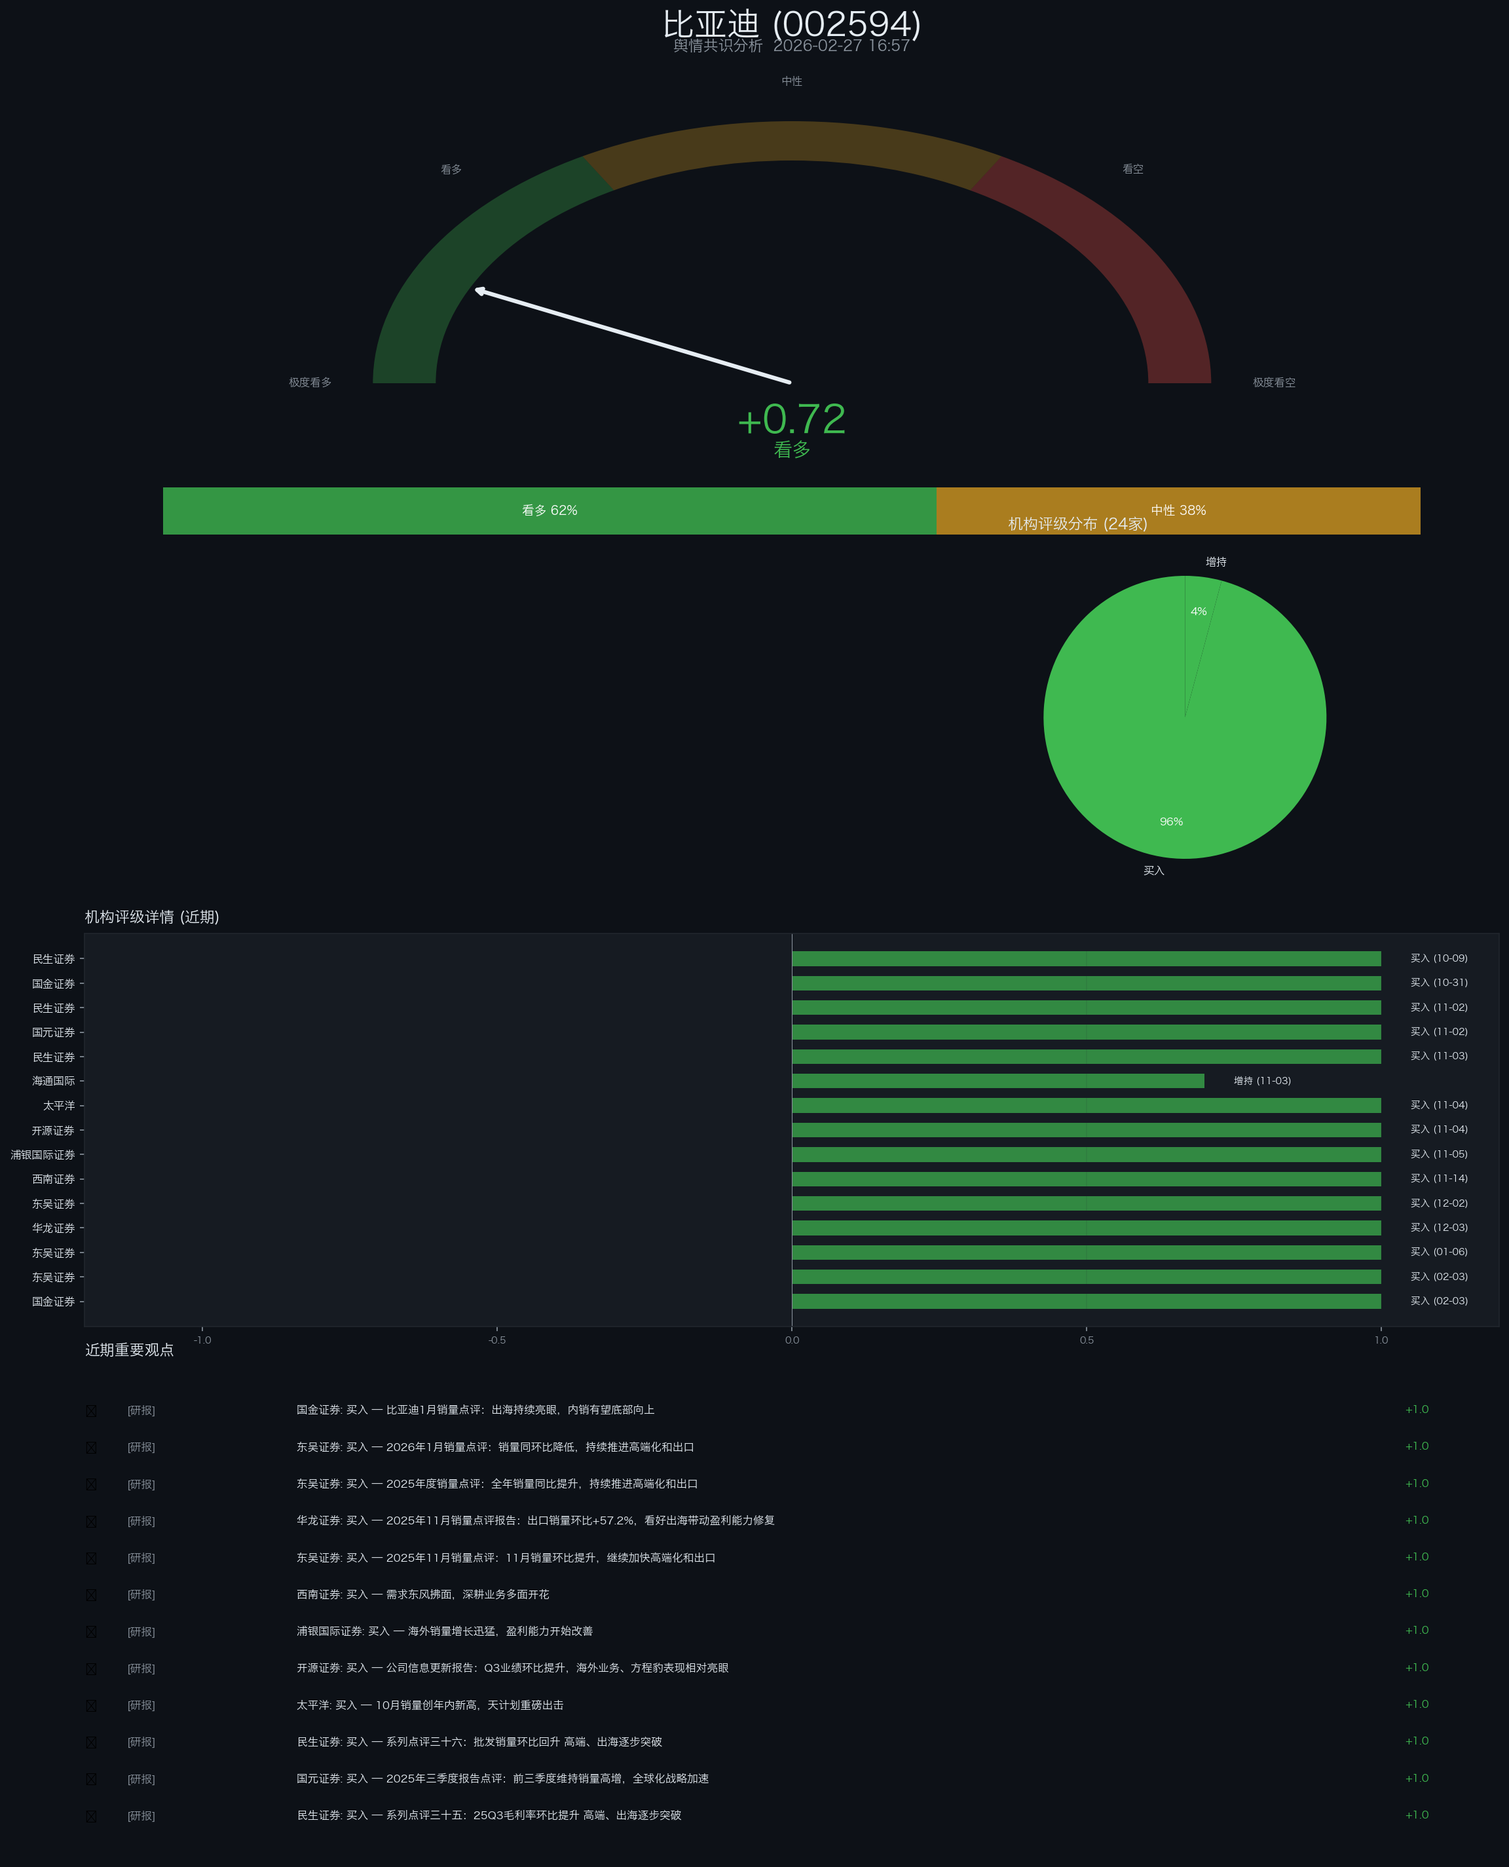
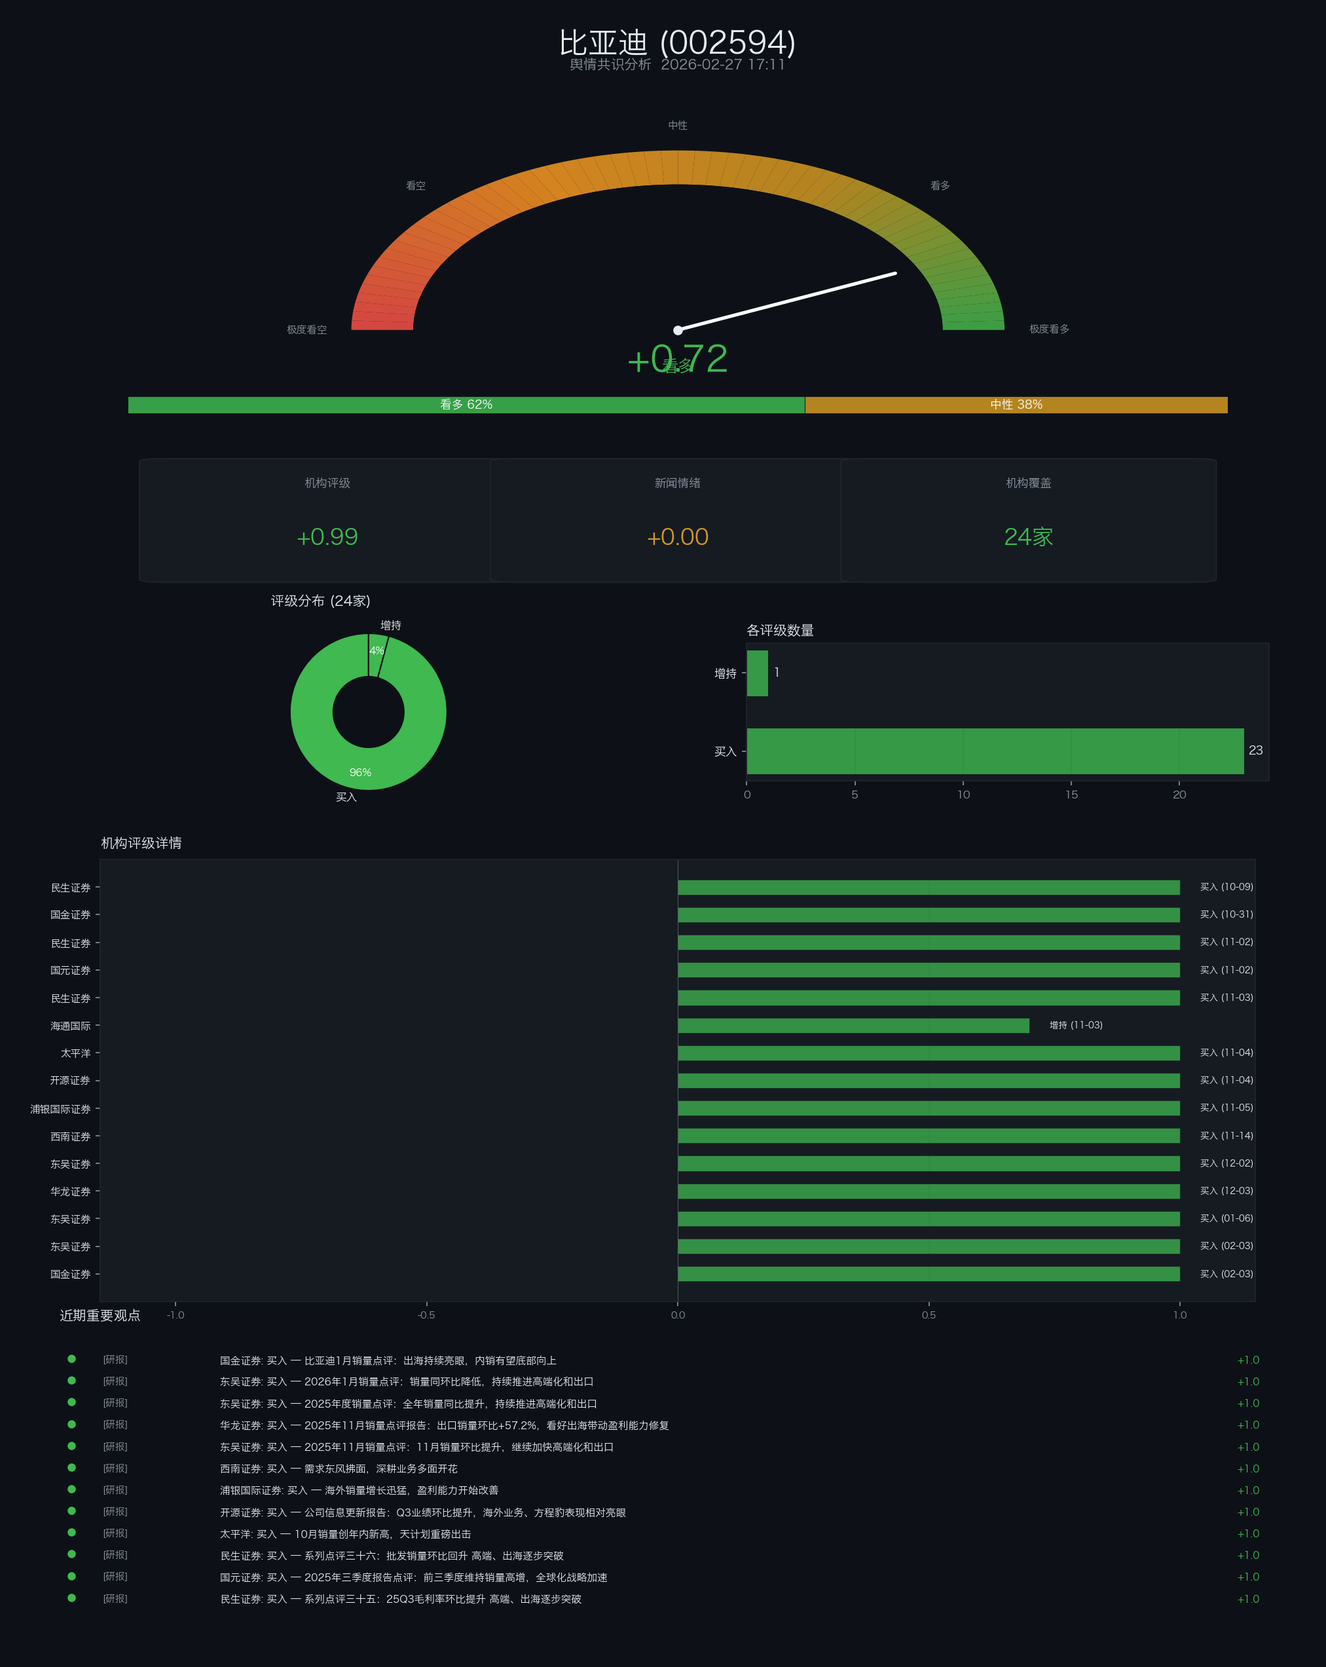
fix: 仪表盘v2 — 方向修正(左空右多)+渐变美化+紧凑布局+指标卡片

diff --git a/skills/sentiment-consensus/scripts/consensus_report.py b/skills/sentiment-consensus/scripts/consensus_report.py
@@ -194,187 +194,280 @@ def rating_to_score(rating):
 # 可视化: 共识仪表盘
 # ═══════════════════════════════════════
 def draw_consensus(data, name, code, output_path):
-    """绘制共识仪表盘"""
+    """绘制共识仪表盘 — v2 精简美观版"""
     import matplotlib
     matplotlib.use('Agg')
     import matplotlib.pyplot as plt
-    from matplotlib.patches import FancyBboxPatch, Arc, Wedge
+    from matplotlib.patches import Wedge
     import matplotlib.patheffects as pe
 
     plt.rcParams['font.sans-serif'] = ['PingFang SC','Hiragino Sans GB','STHeiti','SimHei','Arial Unicode MS']
     plt.rcParams['axes.unicode_minus'] = False
 
-    BG='#0d1117'; PNL='#161b22'; GRD='#21262d'
-    TXT='#e6edf3'; LBL='#8b949e'
-    BULL='#3fb950'; BEAR='#f85149'; NEU='#d29922'
+    # 配色系统
+    BG     = '#0d1117'
+    PNL    = '#161b22'
+    GRD    = '#21262d'
+    TXT    = '#e6edf3'
+    LBL    = '#8b949e'
+    BULL   = '#3fb950'
+    BEAR   = '#f85149'
+    NEU    = '#d29922'
+    ACCENT = '#58a6ff'
 
-    fig = plt.figure(figsize=(16, 20), facecolor=BG)
-
-    # === 标题区 ===
-    fig.text(0.5, 0.97, f'{name} ({code})', fontsize=24, fontweight='bold',
-             color=TXT, ha='center', va='top')
-    fig.text(0.5, 0.955, f'舆情共识分析  {datetime.now().strftime("%Y-%m-%d %H:%M")}',
-             fontsize=11, color=LBL, ha='center', va='top')
-
-    # 数据提取
-    consensus_score = data.get('consensus_score', 0)  # -1 ~ +1
+    consensus_score = data.get('consensus_score', 0)
     bull_pct = data.get('bull_pct', 0)
     bear_pct = data.get('bear_pct', 0)
     neu_pct = data.get('neutral_pct', 0)
-    ratings = data.get('ratings', [])
-    guba_sentiment = data.get('guba_sentiment', data.get('news_sentiment', 0))
     news_sentiment = data.get('news_sentiment', 0)
+    rating_avg = data.get('rating_avg', 0)
     ths_data = data.get('ths_diagnosis', {})
     top_opinions = data.get('top_opinions', [])
     rating_dist = data.get('rating_distribution', {})
     orgs = data.get('org_ratings', [])
 
-    # === 1. 共识仪表盘 (大半圆) ===
-    ax_gauge = fig.add_axes([0.1, 0.74, 0.8, 0.2])
-    ax_gauge.set_xlim(-1.5, 1.5); ax_gauge.set_ylim(-0.3, 1.2)
-    ax_gauge.set_facecolor(BG); ax_gauge.axis('off')
+    # 计算需要几个面板来决定高度
+    has_orgs = len(orgs) > 0
+    has_opinions = len(top_opinions) > 0
+    n_orgs = min(len(orgs), 15)
+    n_ops = min(len(top_opinions), 12)
 
-    # 半圆弧 (绿-黄-红)
-    for angle, color in [(0, BEAR), (60, NEU), (120, BULL)]:
-        w = Wedge((0, 0), 1.0, angle, angle+60, width=0.15, fc=color, alpha=0.3)
-        ax_gauge.add_patch(w)
+    fig_h = 10  # 仪表盘+多空条+评分+评级分布
+    if has_orgs: fig_h += max(3, n_orgs * 0.35)
+    if has_opinions: fig_h += max(3, n_ops * 0.3)
 
-    # 指针
-    ptr_angle = 90 + consensus_score * 90  # -1→0°, 0→90°, +1→180°
+    fig = plt.figure(figsize=(14, fig_h), facecolor=BG)
+
+    # === 标题 ===
+    fig.text(0.5, 1 - 0.15/fig_h, f'{name} ({code})', fontsize=22, fontweight='bold',
+             color=TXT, ha='center', va='top')
+    fig.text(0.5, 1 - 0.45/fig_h, f'舆情共识分析  {data.get("date", "")}',
+             fontsize=10, color=LBL, ha='center', va='top')
+
+    # ============================================
+    # 1. 仪表盘 (紧凑半圆)
+    # ============================================
+    gauge_h = 2.5 / fig_h
+    gauge_bot = 1 - 1.0/fig_h - gauge_h
+    ax_g = fig.add_axes([0.15, gauge_bot, 0.7, gauge_h])
+    ax_g.set_xlim(-1.4, 1.4); ax_g.set_ylim(-0.15, 1.15)
+    ax_g.set_facecolor(BG); ax_g.axis('off')
+
+    # 渐变弧 — 从左(极度看空/红)到右(极度看多/绿)
+    n_seg = 60
+    for i in range(n_seg):
+        a_start = 180 - i * (180 / n_seg)
+        a_end = 180 - (i + 1) * (180 / n_seg)
+        t = i / n_seg  # 0=左(看空/红) → 1=右(看多/绿)
+        if t < 0.35:
+            # 红 → 橙
+            r = 248
+            g = int(81 + (153-81) * t/0.35)
+            b = int(73 + (34-73) * t/0.35)
+        elif t < 0.65:
+            # 橙 → 黄
+            tt = (t - 0.35) / 0.3
+            r = int(248 + (210-248) * tt)
+            g = int(153 + (153-153) * tt)
+            b = int(34 + (34-34) * tt)
+        else:
+            # 黄 → 绿
+            tt = (t - 0.65) / 0.35
+            r = int(210 + (63-210) * tt)
+            g = int(153 + (185-153) * tt)
+            b = int(34 + (80-34) * tt)
+        color = f'#{r:02x}{g:02x}{b:02x}'
+        w = Wedge((0, 0), 0.95, a_end, a_start, width=0.18, fc=color, ec='none', alpha=0.85)
+        ax_g.add_patch(w)
+
+    # 内阴影
+    w_inner = Wedge((0, 0), 0.77, 0, 180, fc=BG, ec='none')
+    ax_g.add_patch(w_inner)
+
+    # 指针 — score -1(极度看空/左/180°)→0(中/90°)→+1(极度看多/右/0°)
+    ptr_angle = 90 - consensus_score * 90  # +1→0°(右), -1→180°(左)
     ptr_rad = np.radians(ptr_angle)
-    ax_gauge.annotate('', xy=(0.85*np.cos(ptr_rad), 0.85*np.sin(ptr_rad)),
-                      xytext=(0, 0),
-                      arrowprops=dict(arrowstyle='->', color=TXT, lw=3))
+    ax_g.plot([0, 0.7*np.cos(ptr_rad)], [0, 0.7*np.sin(ptr_rad)],
+             color='white', lw=2.5, solid_capstyle='round')
+    ax_g.plot(0, 0, 'o', color=TXT, markersize=6, zorder=5)
 
-    # 刻度标签
+    # 刻度标签 — 左=看空, 右=看多
     for val, label in [(-1, '极度看空'), (-0.5, '看空'), (0, '中性'), (0.5, '看多'), (1, '极度看多')]:
-        a = np.radians(90 + val * 90)
-        ax_gauge.text(1.15*np.cos(a), 1.15*np.sin(a), label,
-                     fontsize=8, color=LBL, ha='center', va='center')
+        a = np.radians(90 - val * 90)  # -1→180°(左), +1→0°(右)
+        ax_g.text(1.08*np.cos(a), 1.08*np.sin(a), label,
+                 fontsize=7.5, color=LBL, ha='center', va='center')
 
-    # 中心分数
+    # 分数
     score_color = BULL if consensus_score > 0.2 else BEAR if consensus_score < -0.2 else NEU
     label_text = '看多' if consensus_score > 0.2 else '看空' if consensus_score < -0.2 else '中性'
-    ax_gauge.text(0, -0.15, f'{consensus_score:+.2f}', fontsize=28, fontweight='bold',
-                 color=score_color, ha='center', va='center',
-                 path_effects=[pe.withStroke(linewidth=3, foreground=BG)])
-    ax_gauge.text(0, -0.28, label_text, fontsize=14, color=score_color, ha='center')
+    ax_g.text(0, -0.08, f'{consensus_score:+.2f}', fontsize=26, fontweight='bold',
+             color=score_color, ha='center', va='top',
+             path_effects=[pe.withStroke(linewidth=2, foreground=BG)])
+    ax_g.text(0, -0.22, label_text, fontsize=12, color=score_color, ha='center')
 
-    # === 2. 多头/空头/中性占比 (三色条) ===
-    ax_bar = fig.add_axes([0.1, 0.70, 0.8, 0.03])
+    # ============================================
+    # 2. 多空占比条
+    # ============================================
+    bar_bot = gauge_bot - 0.6/fig_h
+    ax_bar = fig.add_axes([0.1, bar_bot, 0.8, 0.25/fig_h])
     ax_bar.set_facecolor(BG); ax_bar.axis('off')
     ax_bar.set_xlim(0, 1); ax_bar.set_ylim(0, 1)
-
     x = 0
     for pct, color, label in [(bull_pct, BULL, '看多'), (neu_pct, NEU, '中性'), (bear_pct, BEAR, '看空')]:
         if pct > 0:
-            ax_bar.barh(0.5, pct/100, left=x, height=0.8, color=color, alpha=0.8)
-            if pct > 8:
-                ax_bar.text(x + pct/200, 0.5, f'{label} {pct:.0f}%', fontsize=9,
+            ax_bar.barh(0.5, pct/100, left=x, height=0.7, color=color, alpha=0.85,
+                       edgecolor=BG, linewidth=0.5)
+            if pct > 10:
+                ax_bar.text(x + pct/200, 0.5, f'{label} {pct:.0f}%', fontsize=8.5,
                            color='white', ha='center', va='center', fontweight='bold')
             x += pct/100
 
-    # === 3. 各维度雷达/评分 ===
-    dims_data = []
-    if ths_data:
-        for k in ['技术面','资金面','基本面','消息面']:
-            if k in ths_data:
-                dims_data.append((k, ths_data[k]))
-    if guba_sentiment != 0:
-        dims_data.append(('新闻情绪', (guba_sentiment + 1) * 50))  # -1~+1 → 0~100
-    if news_sentiment != 0:
-        dims_data.append(('新闻情绪', (news_sentiment + 1) * 50))
+    # ============================================
+    # 3. 核心指标卡片 (评级+新闻+同花顺)
+    # ============================================
+    card_bot = bar_bot - 1.8/fig_h
+    ax_card = fig.add_axes([0.05, card_bot, 0.9, 1.5/fig_h])
+    ax_card.set_facecolor(BG); ax_card.axis('off')
+    ax_card.set_xlim(0, 1); ax_card.set_ylim(0, 1)
 
-    if dims_data:
-        ax_radar = fig.add_axes([0.05, 0.52, 0.45, 0.18])
-        ax_radar.set_facecolor(PNL)
-        for s in ax_radar.spines.values(): s.set_color(GRD)
-        ax_radar.tick_params(colors=LBL, labelsize=8)
-
-        names_d = [d[0] for d in dims_data]
-        vals = [d[1] for d in dims_data]
-        colors_d = [BULL if v > 60 else BEAR if v < 40 else NEU for v in vals]
-
-        bars = ax_radar.barh(range(len(dims_data)), vals, color=colors_d, alpha=0.7, height=0.6)
-        ax_radar.set_yticks(range(len(dims_data)))
-        ax_radar.set_yticklabels(names_d, fontsize=9, color=TXT)
-        ax_radar.set_xlim(0, 100)
-        ax_radar.set_xlabel('分数', fontsize=8, color=LBL)
-        ax_radar.axvline(50, color=LBL, lw=0.5, ls='--', alpha=0.4)
-        for i, v in enumerate(vals):
-            ax_radar.text(v + 1, i, f'{v:.0f}', fontsize=9, color=TXT, va='center')
-        ax_radar.set_title('多维度评分', fontsize=11, color=TXT, pad=8, loc='left')
-        ax_radar.grid(axis='x', alpha=0.1, color=GRD)
-
-    # === 4. 机构评级分布 (饼图) ===
+    # 计算有几个指标卡片
+    cards = []
+    cards.append(('机构评级', f'{rating_avg:+.2f}', rating_avg))
+    cards.append(('新闻情绪', f'{news_sentiment:+.2f}', news_sentiment))
+    if ths_data and ths_data.get('score'):
+        cards.append(('同花顺', f"{ths_data['score']}分", (ths_data['score']-50)/50))
     if rating_dist:
-        ax_pie = fig.add_axes([0.55, 0.52, 0.4, 0.18])
-        ax_pie.set_facecolor(PNL)
+        total = sum(rating_dist.values())
+        cards.append(('机构覆盖', f'{total}家', 0.5))
+
+    card_w = 0.85 / max(len(cards), 1)
+    for i, (title, value, sent) in enumerate(cards):
+        cx = 0.075 + i * card_w + card_w/2
+        # 卡片背景
+        from matplotlib.patches import FancyBboxPatch
+        rect = FancyBboxPatch((0.075 + i*card_w + 0.01, 0.1), card_w - 0.02, 0.8,
+                              boxstyle="round,pad=0.02", fc=PNL, ec=GRD, lw=0.8)
+        ax_card.add_patch(rect)
+        # 标题
+        ax_card.text(cx, 0.75, title, fontsize=8.5, color=LBL, ha='center', va='center')
+        # 数值
+        if isinstance(sent, (int, float)):
+            vc = BULL if sent > 0.2 else BEAR if sent < -0.2 else NEU
+        else:
+            vc = TXT
+        ax_card.text(cx, 0.38, value, fontsize=16, fontweight='bold', color=vc,
+                    ha='center', va='center')
+
+    # ============================================
+    # 4. 机构评级分布 + 饼图
+    # ============================================
+    if rating_dist:
+        pie_bot = card_bot - 2.2/fig_h
+        # 饼图
+        ax_pie = fig.add_axes([0.1, pie_bot, 0.35, 2.0/fig_h])
+        ax_pie.set_facecolor(BG)
 
         labels_p = list(rating_dist.keys())
         sizes = list(rating_dist.values())
-        colors_p = []
-        for l in labels_p:
-            s = rating_to_score(l)
-            colors_p.append(BULL if s > 0.3 else BEAR if s < -0.3 else NEU)
+        colors_p = [BULL if rating_to_score(l) > 0.3 else BEAR if rating_to_score(l) < -0.3 else NEU
+                   for l in labels_p]
 
         if sum(sizes) > 0:
-            wedges, texts, autotexts = ax_pie.pie(sizes, labels=labels_p, autopct='%1.0f%%',
+            wedges, texts, autotexts = ax_pie.pie(
+                sizes, labels=labels_p, autopct='%1.0f%%',
                 colors=colors_p, textprops=dict(color=TXT, fontsize=8),
-                pctdistance=0.75, startangle=90)
-            for at in autotexts: at.set_fontsize(8); at.set_color('white')
-            ax_pie.set_title(f'机构评级分布 ({sum(sizes)}家)', fontsize=11, color=TXT, pad=8, loc='left')
+                pctdistance=0.78, startangle=90, wedgeprops=dict(width=0.55, edgecolor=BG))
+            for at in autotexts:
+                at.set_fontsize(7.5); at.set_color('white'); at.set_fontweight('bold')
+            ax_pie.set_title(f'评级分布 ({sum(sizes)}家)', fontsize=10, color=TXT, pad=6, loc='left')
 
-    # === 5. 机构评级时间线 ===
-    if orgs:
-        ax_tl = fig.add_axes([0.05, 0.30, 0.9, 0.20])
+        # 评级数量条
+        if len(rating_dist) > 1:
+            ax_rd = fig.add_axes([0.55, pie_bot + 0.3/fig_h, 0.38, 1.4/fig_h])
+            ax_rd.set_facecolor(PNL)
+            for s in ax_rd.spines.values(): s.set_color(GRD)
+            ax_rd.tick_params(colors=LBL, labelsize=8)
+
+            sorted_r = sorted(rating_dist.items(), key=lambda x: x[1], reverse=True)
+            r_labels = [x[0] for x in sorted_r]
+            r_vals = [x[1] for x in sorted_r]
+            r_colors = [BULL if rating_to_score(l) > 0.3 else BEAR if rating_to_score(l) < -0.3 else NEU
+                       for l in r_labels]
+            bars = ax_rd.barh(range(len(r_labels)), r_vals, color=r_colors, alpha=0.8, height=0.6,
+                             edgecolor=BG, linewidth=0.5)
+            ax_rd.set_yticks(range(len(r_labels)))
+            ax_rd.set_yticklabels(r_labels, fontsize=8.5, color=TXT)
+            for i, v in enumerate(r_vals):
+                ax_rd.text(v + 0.2, i, str(v), fontsize=8.5, color=TXT, va='center')
+            ax_rd.set_title('各评级数量', fontsize=10, color=TXT, pad=6, loc='left')
+            ax_rd.grid(axis='x', alpha=0.08, color=GRD)
+    else:
+        pie_bot = card_bot - 0.3/fig_h
+
+    # ============================================
+    # 5. 机构评级详情 (横向条)
+    # ============================================
+    if has_orgs:
+        tl_h = max(2.5, n_orgs * 0.3) / fig_h
+        tl_bot = pie_bot - tl_h - 0.5/fig_h
+        ax_tl = fig.add_axes([0.08, tl_bot, 0.84, tl_h])
         ax_tl.set_facecolor(PNL)
         for s in ax_tl.spines.values(): s.set_color(GRD)
         ax_tl.tick_params(colors=LBL, labelsize=7)
 
         orgs_show = orgs[:15]
-        y_labels = [f"{o['org'][:8]}" for o in orgs_show]
+        y_labels = [f"{o['org'][:6]}" for o in orgs_show]
         x_scores = [rating_to_score(o.get('rating', '')) for o in orgs_show]
         colors_o = [BULL if s > 0.3 else BEAR if s < -0.3 else NEU for s in x_scores]
         dates = [o.get('report_date', '')[-5:] for o in orgs_show]
 
-        ax_tl.barh(range(len(orgs_show)), x_scores, color=colors_o, alpha=0.7, height=0.6)
+        ax_tl.barh(range(len(orgs_show)), x_scores, color=colors_o, alpha=0.75, height=0.55,
+                  edgecolor=BG, linewidth=0.3)
         ax_tl.set_yticks(range(len(orgs_show)))
-        ax_tl.set_yticklabels(y_labels, fontsize=8, color=TXT)
-        ax_tl.set_xlim(-1.2, 1.2)
-        ax_tl.axvline(0, color=LBL, lw=0.5)
+        ax_tl.set_yticklabels(y_labels, fontsize=7.5, color=TXT)
+        ax_tl.set_xlim(-1.15, 1.15)
+        ax_tl.axvline(0, color=LBL, lw=0.5, alpha=0.5)
         for i, (sc, dt, o) in enumerate(zip(x_scores, dates, orgs_show)):
             r = o.get('rating', '')
-            ax_tl.text(sc + (0.05 if sc >= 0 else -0.05), i,
-                      f'{r} ({dt})', fontsize=7, color=TXT,
+            ax_tl.text(sc + (0.04 if sc >= 0 else -0.04), i,
+                      f'{r} ({dt})', fontsize=6.5, color=TXT,
                       va='center', ha='left' if sc >= 0 else 'right')
-        ax_tl.set_title('机构评级详情 (近期)', fontsize=11, color=TXT, pad=8, loc='left')
-        ax_tl.grid(axis='x', alpha=0.1, color=GRD)
+        ax_tl.set_title('机构评级详情', fontsize=10, color=TXT, pad=8, loc='left')
+        ax_tl.grid(axis='x', alpha=0.06, color=GRD)
+    else:
+        tl_bot = pie_bot - 0.3/fig_h
 
-    # === 6. 舆情关键词/观点摘要 ===
-    if top_opinions:
-        ax_op = fig.add_axes([0.05, 0.03, 0.9, 0.25])
+    # ============================================
+    # 6. 近期重要观点
+    # ============================================
+    if has_opinions:
+        op_h = max(2.5, n_ops * 0.26) / fig_h
+        op_bot = tl_bot - op_h - 0.3/fig_h
+        ax_op = fig.add_axes([0.05, max(0.02, op_bot), 0.9, op_h])
         ax_op.set_facecolor(PNL)
         ax_op.axis('off')
-        ax_op.set_title('近期重要观点', fontsize=11, color=TXT, pad=8, loc='left')
+        ax_op.set_title('近期重要观点', fontsize=10, color=TXT, pad=8, loc='left')
 
         y = 0.92
-        for i, op in enumerate(top_opinions[:12]):
+        step = min(0.08, 0.85 / max(n_ops, 1))
+        for i, op in enumerate(top_opinions[:n_ops]):
             src = op.get('source', '')
-            title = op.get('title', '')[:60]
+            title = op.get('title', '')[:55]
             sentiment = op.get('sentiment', 0)
-            marker = '🟢' if sentiment > 0.2 else '🔴' if sentiment < -0.2 else '🟡'
-            score_t = f'{sentiment:+.1f}' if sentiment != 0 else '  0'
+            dot_c = BULL if sentiment > 0.15 else BEAR if sentiment < -0.15 else NEU
+            score_t = f'{sentiment:+.1f}'
 
-            ax_op.text(0.0, y, marker, fontsize=9, transform=ax_op.transAxes, va='top')
-            ax_op.text(0.03, y, f'[{src}]', fontsize=8, color=LBL, transform=ax_op.transAxes, va='top')
-            ax_op.text(0.15, y, title, fontsize=8, color=TXT, transform=ax_op.transAxes, va='top')
-            ax_op.text(0.95, y, score_t, fontsize=8,
-                      color=BULL if sentiment > 0.2 else BEAR if sentiment < -0.2 else NEU,
-                      transform=ax_op.transAxes, va='top', ha='right')
-            y -= 0.075
+            ax_op.plot(0.01, y - 0.01, 'o', color=dot_c, markersize=5,
+                      transform=ax_op.transAxes)
+            ax_op.text(0.035, y, f'[{src}]', fontsize=7, color=LBL,
+                      transform=ax_op.transAxes, va='top')
+            ax_op.text(0.13, y, title, fontsize=7.5, color=TXT,
+                      transform=ax_op.transAxes, va='top')
+            ax_op.text(0.97, y, score_t, fontsize=7.5, fontweight='bold',
+                      color=dot_c, transform=ax_op.transAxes, va='top', ha='right')
+            y -= step
 
-    plt.savefig(output_path, dpi=150, bbox_inches='tight', facecolor=BG)
+    plt.savefig(output_path, dpi=150, bbox_inches='tight', facecolor=BG, pad_inches=0.3)
     plt.close()
     print(f"Chart saved: {output_path}")
 
